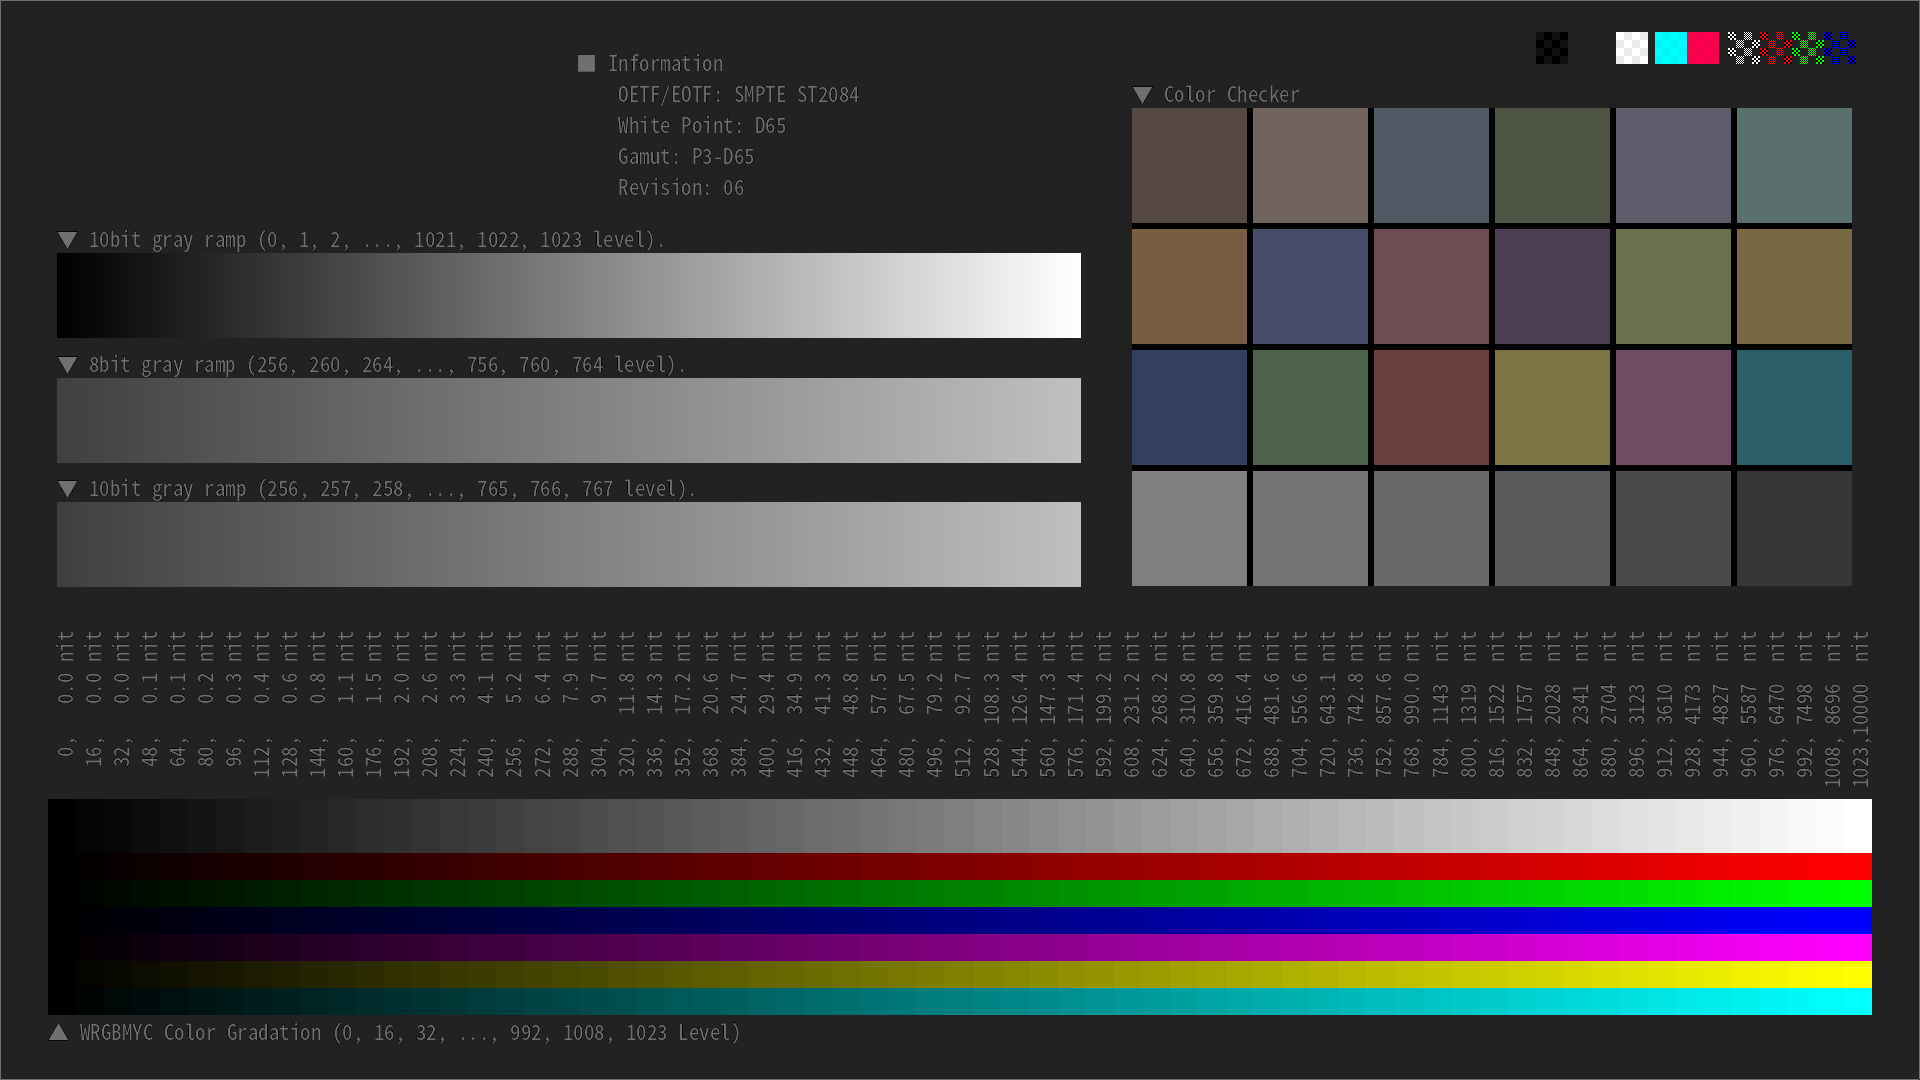
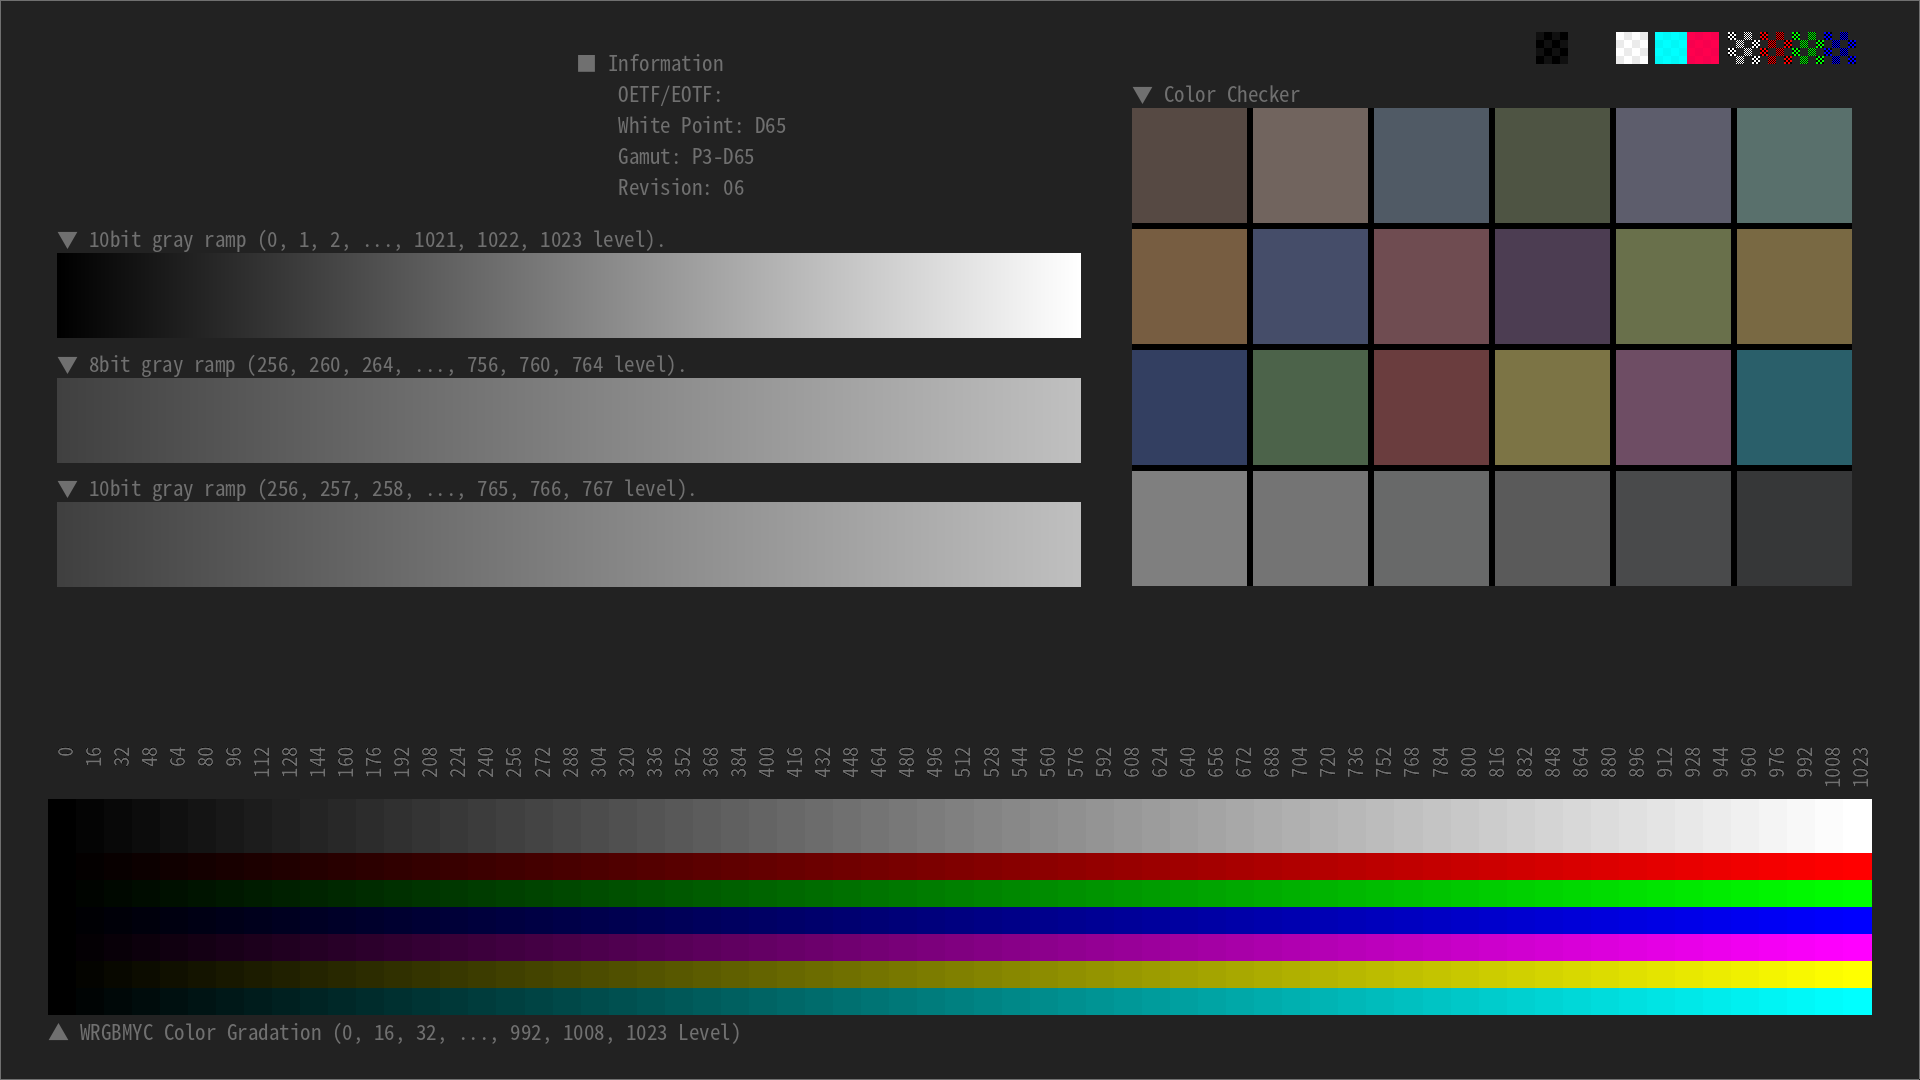
#223 create 1st sample (failed...)

Changed region(s): [[0.0312, 0.5806, 0.9688, 0.6111], [0.3438, 0.6417, 0.9688, 0.6722], [0.375, 0.0611, 0.4062, 0.0917]]

diff --git a/2023/10_Study_Gain_Map_HDR/study_gain_map_hdr.py b/2023/10_Study_Gain_Map_HDR/study_gain_map_hdr.py
@@ -46,6 +46,18 @@ def linearize_input_image(fname, tf_name=tf.ST2084, cs_name=cs.P3_D65):
     return linear_img
 
 
+def non_linearize_output_image(
+        img_linear, tf_name=tf.ST2084, cs_name=cs.P3_D65):
+    large_xyz = cs.rgb_to_large_xyz(
+        rgb=img_linear, color_space_name=GAIN_MAP_CS_NAME)
+    rgb = cs.large_xyz_to_rgb(
+        xyz=large_xyz, color_space_name=cs_name)
+    rgb_non_linear = tf.oetf_from_luminance(
+        rgb * tf.REF_WHITE_LUMINANCE, tf_name)
+
+    return rgb_non_linear
+
+
 def create_gain_map_fname(sdr_fname, hdr_fname):
     """
     Examples
@@ -94,6 +106,7 @@ def create_log2_gain_map_image(sdr_linear, hdr_linear):
     gain_map = np.log2((hdr_linear + K_HDR)/(sdr_linear + K_SDR))
     min_val = calc_min_val_color(gain_map=gain_map)
     max_val = calc_max_val_color(gain_map=gain_map)
+    print(f"min_val, max_val = {min_val} {max_val}")
 
     gain_map = (gain_map - min_val) / (max_val - min_val)
 
@@ -105,11 +118,13 @@ def save_gain_map_img(
     gain_map_metadata_fname = create_gain_map_metadata_fname(
         gain_map_fname=gain_map_fname)
 
-    # apply oetf
+    # apply oetf [option]
     gain_map_img_log2 = gain_map_img_log2 ** (1/GAIN_MAP_ENCODE_GAMMA)
 
     # save
-    pass
+    tpg.img_wirte_float_as_16bit_int(gain_map_fname, gain_map_img_log2)
+    metadata = np.array([min_val, max_val])
+    np.save(gain_map_metadata_fname, metadata)
 
 
 def create_and_save_gain_map(
@@ -118,7 +133,6 @@ def create_and_save_gain_map(
         sdr_cs_name=cs.P3_D65, hdr_cs_name=cs.P3_D65,
         sdr_tf_name=tf.GAMMA24, hdr_tf_name=tf.ST2084):
 
-    # define
     gain_map_fname = create_gain_map_fname(
         sdr_fname=sdr_fname, hdr_fname=hdr_fname)
 
@@ -138,21 +152,82 @@ def create_and_save_gain_map(
         min_val=min_val, max_val=max_val, gain_map_fname=gain_map_fname)
 
 
-def create_intermediate_hdr_image():
-    pass
+def create_intermediate_hdr_image(
+        base_sdr_img, gain_map, min_val, max_val):
+    gg = gain_map * (max_val - min_val) + min_val
+    hdr_img = (base_sdr_img + K_SDR) * (2 ** gg) - K_HDR
+
+    return hdr_img
+
+
+def calc_weight_w(hdr_white, sdr_white, min_val, max_val):
+    """
+    Paramters
+    ---------
+    hdr_white : float
+        HDR peak luminance (e.g. 1000 nits)
+    sdr_white : float
+        SDR white luminance (e.g. 203 nits)
+    min_val : float
+        A minimum value of the gain map (log2 space)
+    max_val : float
+        A maximum value of the gain map (log2 space)
+    """
+    hh = np.log2(hdr_white/sdr_white)
+    ff = (hh - min_val) / (max_val - min_val)
+
+    return np.clip(ff, 0.0, 1.0)
+
+
+def create_out_hdr_fname(
+        sdr_fname, display_sdr_white_nit, display_hdr_white_nit):
+    base_dir = "/work/overuse/2023/10_Gain_Map_HDR"
+    basename = Path(sdr_fname).name
+    fname = f"{base_dir}/{basename}_{display_sdr_white_nit}_"
+    fname += f"{display_hdr_white_nit}.png"
+
+    return fname
 
 
 def apply_gain_map(
         sdr_fname="./img/SDR_TyTP_P3D65.png",
-        gain_map_img="./img/gain_map_SDR_TyTP_P3D65_HDR_TyTP_P3D65.png",
-        sdr_white_nit=203, hdr_white_nit=10000):
+        sdr_cs_name=cs.P3_D65, sdr_tf_name=tf.GAMMA24,
+        hdr_cs_name=cs.P3_D65, hdr_tf_name=tf.ST2084,
+        gain_map_img_fname="./img/gain_map_SDR_TyTP_P3D65_HDR_TyTP_P3D65.png",
+        display_sdr_white_nit=203, display_hdr_white_nit=10000):
     """
     2種類の出力をするかもしれない。
     1つは正直ベースにパラメータをファイル名に埋め込んだ版。
     もう1つは YouTube アップロード用にパラメータは消して連番ファイルにした版。
     なお、パラメータは文字列として画像に焼く
     """
-    pass
+    metadata_fname = create_gain_map_metadata_fname(gain_map_img_fname)
+    metadata = np.load(metadata_fname)
+    min_val, max_val = metadata
+    print(f"min_val, max_val = {min_val} {max_val}")
+
+    sdr_liner = linearize_input_image(
+        fname=sdr_fname, tf_name=sdr_tf_name, cs_name=sdr_cs_name)
+    ww = calc_weight_w(
+        hdr_white=display_hdr_white_nit, sdr_white=display_sdr_white_nit,
+        min_val=min_val, max_val=max_val)
+
+    gain_map_img = tpg.img_read_as_float(gain_map_img_fname)
+    gain_map_with_w = gain_map_img * ww
+
+    hdr_img_linear = create_intermediate_hdr_image(
+        base_sdr_img=sdr_liner, gain_map=gain_map_with_w,
+        min_val=min_val, max_val=max_val)
+
+    hdr_img_non_linear = non_linearize_output_image(
+        img_linear=hdr_img_linear, tf_name=hdr_tf_name, cs_name=hdr_cs_name)
+    fname = create_out_hdr_fname(
+        sdr_fname=sdr_fname,
+        display_sdr_white_nit=display_sdr_white_nit,
+        display_hdr_white_nit=display_hdr_white_nit)
+
+    print(fname)
+    tpg.img_wirte_float_as_16bit_int(fname, hdr_img_non_linear)
 
 
 def debug_func():
@@ -167,13 +242,15 @@ def debug_func():
         sdr_cs_name=sdr_cs_name, hdr_cs_name=hdr_cs_name,
         sdr_tf_name=sdr_tf_name, hdr_tf_name=hdr_tf_name)
 
-    sdr_white_nit = 203
-    hdr_white_nit = 1000
-    gain_map_img_name = create_gain_map_fname(
+    display_sdr_white_nit = 100
+    display_hdr_white_nit = 1000
+    gain_map_img_fname = create_gain_map_fname(
         sdr_fname=sdr_fname, hdr_fname=hdr_fname)
     apply_gain_map(
-        sdr_fname=sdr_fname, gain_map_img=gain_map_img_name,
-        sdr_white_nit=sdr_white_nit, hdr_white_nit=hdr_white_nit)
+        sdr_fname=sdr_fname, gain_map_img_fname=gain_map_img_fname,
+        sdr_cs_name=sdr_cs_name, sdr_tf_name=sdr_tf_name,
+        display_sdr_white_nit=display_sdr_white_nit,
+        display_hdr_white_nit=display_hdr_white_nit)
 
 
 if __name__ == '__main__':

diff --git a/2019/012_colour_v0.3.14_check/TpgDraw.py b/2019/012_colour_v0.3.14_check/TpgDraw.py
@@ -183,6 +183,15 @@ class TpgDraw:
         fg_color = tuple([text_video_level_8bit for x in range(3)])
         return fg_color
 
+    def get_bg_color_for_pillow(self):
+        """
+        Pillow 用 に 8bit精度のFG COLORを算出する
+        """
+        text_video_level_8bit\
+            = int(self.bg_code_value / self.convert_to_8bit_coef)
+        bg_color = tuple([text_video_level_8bit for x in range(3)])
+        return bg_color
+
     def convert_from_pillow_to_numpy(self, img):
         img = np.uint16(np.asarray(img)) * self.convert_to_8bit_coef
 
@@ -204,7 +213,9 @@ class TpgDraw:
 
         # かなり汚い実装。0x00 で無いピクセルのインデックスを抽出し、
         # そのピクセルのみを元の画像に上書きするという処理をしている。
-        text_index = txt_img > 0
+        bg_code_value\
+            = self.get_bg_color_for_pillow() * self.convert_to_8bit_coef
+        text_index = txt_img > bg_code_value[0]
         temp_img = self.img[st_pos_v:ed_pos_v, st_pos_h:ed_pos_h]
         temp_img[text_index] = txt_img[text_index]
         self.img[st_pos_v:ed_pos_v, st_pos_h:ed_pos_h] = temp_img
@@ -223,8 +234,8 @@ class TpgDraw:
         text_width = text_img_size[0]
         text_height = text_img_size[1]
         fg_color = self.get_fg_color_for_pillow()
-        bg_coor = (0x00, 0x00, 0x00)
-        txt_img = Image.new("RGB", (text_width, text_height), bg_coor)
+        bg_color = self.get_bg_color_for_pillow()
+        txt_img = Image.new("RGB", (text_width, text_height), bg_color)
         draw = ImageDraw.Draw(txt_img)
         font = ImageFont.truetype("./fonts/NotoSansMonoCJKjp-Regular.otf",
                                   font_size)
@@ -490,7 +501,8 @@ class TpgDraw:
         st_pos_v = int(self.info_text_st_pos_v_coef * self.img_height)
         for text in text_list:
             pos = (st_pos_h, st_pos_v)
-            text_img_size = (self.img_width - st_pos_h, text_height)
+            # text_img_size = (self.img_width - st_pos_h, text_height)
+            text_img_size = (self.img_width // 4, text_height)
             self.merge_each_spec_text(pos, font_size, text_img_size, text)
             st_pos_v += text_height
 

diff --git a/2023/10_Study_Gain_Map_HDR/remove_text_info_from_tp.py b/2023/10_Study_Gain_Map_HDR/remove_text_info_from_tp.py
@@ -1,0 +1,57 @@
+# -*- coding: utf-8 -*-
+"""
+
+"""
+
+# import standard libraries
+import os
+from pathlib import Path
+
+# import third-party libraries
+import numpy as np
+
+# import my libraries
+import test_pattern_generator2 as tpg
+import transfer_functions as tf
+import color_space as cs
+
+# information
+__author__ = 'Toru Yoshihara'
+__copyright__ = 'Copyright (C) 2023 - Toru Yoshihara'
+__license__ = 'New BSD License - https://opensource.org/licenses/BSD-3-Clause'
+__maintainer__ = 'Toru Yoshihara'
+__email__ = 'toru.ver.11 at-sign gmail.com'
+
+__all__ = []
+
+
+def main_func(fname):
+    pp = Path(fname)
+    out_fname = "./img/" + pp.name
+
+    img = tpg.img_read_as_float(fname)
+    bg_color = img[4, 4]
+
+    st_pos1_h = 727
+    st_pos1_v = 77
+    ed_pos1_h = st_pos1_h + 169
+    ed_pos1_v = st_pos1_v + 34
+
+    st_pos2_h = 48
+    st_pos2_v = 626
+    ed_pos2_h = st_pos2_h + 1833
+    ed_pos2_v = st_pos2_v + 120
+
+    img[st_pos1_v:ed_pos1_v, st_pos1_h:ed_pos1_h] = bg_color
+    img[st_pos2_v:ed_pos2_v, st_pos2_h:ed_pos2_h] = bg_color
+
+    tpg.img_wirte_float_as_16bit_int(out_fname, img)
+
+
+if __name__ == '__main__':
+    os.chdir(os.path.dirname(os.path.abspath(__file__)))
+    fname_list = [
+        "./img/org_tp/SDR_TyTP_P3D65.png", "./img/org_tp/HDR_tyTP_P3D65.png"
+    ]
+    for fname in fname_list:
+        main_func(fname=fname)
